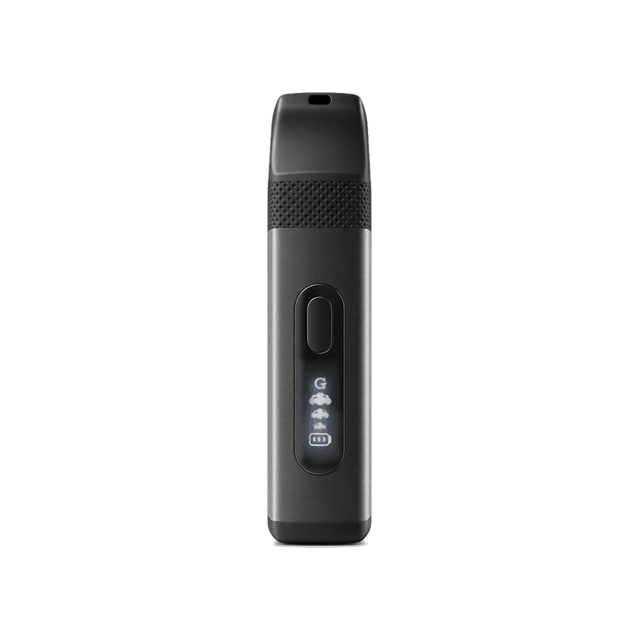
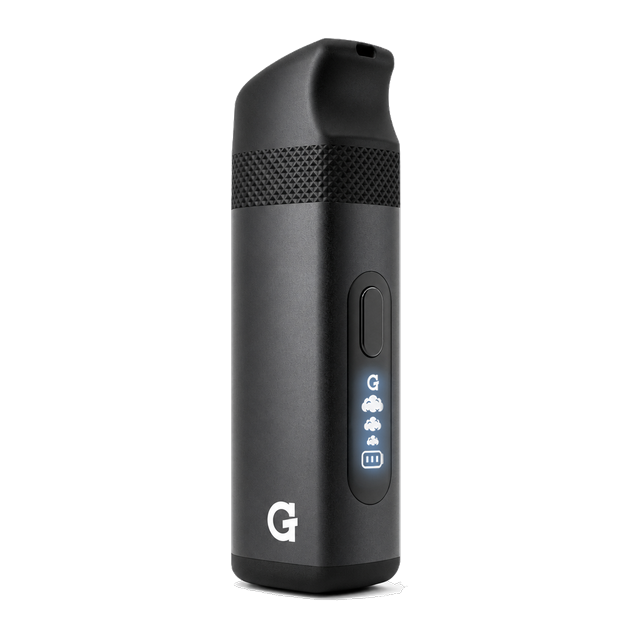
Micro II: new 3/4 hero shot, no-price POP render, larger in the tile
Hero swapped to the 3/4 angle (Micro 2-34.png) the owner picked. The source is a
1025x1025 RGB with a hard white background, so it went through the same
edge-flood-fill as the shot it replaces — connectivity from the border only, so
the lit display and the G logo inside the device keep their whites, with a 1px
alpha feather so the antialiased rim leaves no halo.

Sized to fill the tile: the device is 88% of the 640px canvas (was 71.9%),
rendering ~260px inside the 360px tile instead of ~213px. Still safe against the
clipping case that bit the last cover — at the 360px padding box it would draw
317px, leaving 43px spare.

POP display card now shows Micro-II-Pop-No-Price instead of Micro-II-POP-front.
That needed a new hook: the auto-pick scores "front" +2, so the no-price render
could never win. Added `info.popFile`, an explicit per-product choice matched by
FILENAME at load time — deliberately not a URL, because the synced thumbnails
are content-hashed and change on every re-sync. It resolves before the existing
own-folder fallback, whose `if (p.info.popImg) return` guard then respects it.

Cover token -> 20260826i; asset tokens bumped to match.

Changed region(s): [[0.3438, 0.0625, 0.625, 0.9375]]

diff --git a/assets/data/assets.js b/assets/data/assets.js
@@ -132,7 +132,7 @@ window.PORTAL_PRODUCTS = [
     // Transparent PNG built from the synced "Micro 2-front" shot (background
     // removed by edge flood-fill, preserving the lit display and the G logo),
     // so the tile matches the other products instead of sitting on white.
-    cover: "assets/img/micro-ii.png?v=20260826d",
+    cover: "assets/img/micro-ii.png?v=20260826i",
     // Durable rlkey link (expiring st= token stripped).
     dropbox: "https://www.dropbox.com/scl/fo/spharop9yvc7bnk5g3w4z/AKUC7ALBupRa8e039bvfNr4?rlkey=5560kr7brds1hco7tgeiafsbx&dl=0",
     folders: {},   // real files + thumbnails come from synced.js (Dropbox sync)
@@ -629,6 +629,9 @@ var PRODUCT_INFO = {
     sku: "GPM-001-APZZ",
     upc: "811736020343",
     pop: true,
+    // The no-price render, chosen by the owner over the higher-scoring
+    // "Micro-II-POP-front". Matched by filename — see the popFile resolver.
+    popFile: "Micro-II-Pop-No-Price",
     popSku: "GPM-001-APZZ-Inner Pack",
     popUpc: "10811736020340",
     dimensions: "105 × 35 × 28 mm",
@@ -964,6 +967,22 @@ window.PORTAL_COLORWAYS = {
     var re = MATCH[p.name]; if (!re || !p.info) return;
     var img = pops.filter(function (x) { return re.test(x.name) && x.thumb; })[0];
     if (img) { if (!p.info.popImg) { p.info.popImg = img.thumb; p.info.popImgDl = img.url; } p.info.pop = true; }
+  });
+
+  // An explicit per-product POP choice, named by FILE (info.popFile). Use when
+  // the auto-pick below would score the wrong render highest — e.g. Micro II,
+  // where "Micro-II-POP-front" outscores the no-price render we actually want
+  // on the page. Resolved at load time by filename, never by URL, so it
+  // survives the content-hash thumbnails changing on every re-sync.
+  window.PORTAL_PRODUCTS.forEach(function (p) {
+    if (!p.info || !p.info.popFile || !p.folders) return;
+    var want = String(p.info.popFile).toLowerCase(), hit = null;
+    Object.keys(p.folders).forEach(function (f) {
+      (p.folders[f] || []).forEach(function (x) {
+        if (!hit && x && x.thumb && String(x.name || "").toLowerCase() === want) hit = x;
+      });
+    });
+    if (hit) { p.info.popImg = hit.thumb; p.info.popImgDl = hit.url; p.info.pop = true; }
   });
 
   // Fallback: a POP shot that lives in the product's OWN Dropbox folders rather

diff --git a/index.html b/index.html
@@ -39,7 +39,7 @@
   <link rel="apple-touch-icon" href="apple-touch-icon.png" />
   <meta name="theme-color" content="#ffffff" />
 
-  <link rel="stylesheet" href="assets/css/styles.css?v=20260826h" />
+  <link rel="stylesheet" href="assets/css/styles.css?v=20260826i" />
 </head>
 <body>
   <h1 class="sr-only">G Pen Brand Assets Portal</h1>
@@ -232,7 +232,7 @@
   </button>
 
   <script src="assets/data/synced.js?v=1787934967817"></script>
-  <script src="assets/data/assets.js?v=20260826h"></script>
-  <script src="assets/js/app.js?v=20260826h"></script>
+  <script src="assets/data/assets.js?v=20260826i"></script>
+  <script src="assets/js/app.js?v=20260826i"></script>
 </body>
 </html>

diff --git a/assets/js/app.js b/assets/js/app.js
@@ -25,7 +25,7 @@
      translated. To revise a language, edit only its pack — no code change. */
   var LANGS = { en: "English", es: "Español", de: "Deutsch", it: "Italiano", fr: "Français", pt: "Português (Brasil)" };
   function isLang(l) { return Object.prototype.hasOwnProperty.call(LANGS, l); }
-  var LANG_VER = "20260826h";   // bump with the other asset tokens
+  var LANG_VER = "20260826i";   // bump with the other asset tokens
   // Load a language pack once. English is a no-op (it IS the source).
   var _langLoading = {};
   function loadLangPack(l, cb) {
